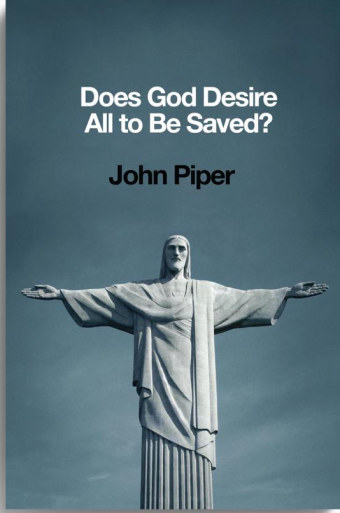
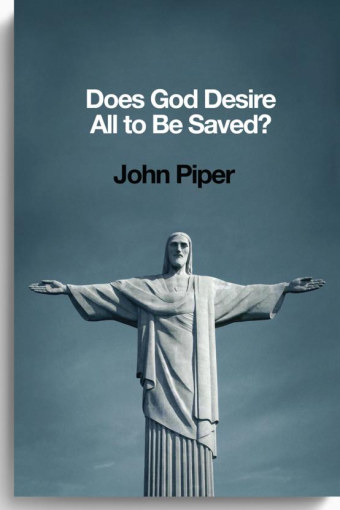
Studio demo: Q&A-only, real rectangular book preview, cursor parked, cover trim
- The source-chip book preview was being clipped into an oval (the "bubble") by a
  leftover ".appshot img { border-radius: 26px }" rule in redo.css. Overrode it on
  .sc-cover img so it now renders as the actual rectangular book cover.
- Dropped the Social-posts output cycling; the demo always shows the Q&A example.
- After Generate, the cursor parks in the bottom-right corner so it never hides the
  output text.
- Re-trimmed the Does God Desire cover to remove the white sliver on its left edge.

Changed region(s): [[0.0, 0.0, 1.0, 1.0], [0.2353, 0.1471, 0.8235, 0.2647], [0.3235, 0.3235, 0.6765, 0.3824]]

diff --git a/studio-fx.js b/studio-fx.js
@@ -112,15 +112,13 @@
   function at(ms, fn) { timers.push(setTimeout(fn, ms)); }
   function clearAll() { for (var i = 0; i < timers.length; i++) clearTimeout(timers[i]); timers = []; }
 
-  var loopCount = 0;
+  function parkCursor() {   // tuck the cursor into the bottom-right so it never hides the output
+    cursor.style.transform = "translate(" + (demo.clientWidth - 30) + "px," + (demo.clientHeight - 32) + "px)";
+  }
   function play() {
     clearAll();
-    var social = (loopCount % 2 === 1);          // alternate Q&A and Social each loop
-    var opt = social ? (socialOpt || qaOpt) : qaOpt;
-    var ans = social ? socialAns : qaAns;
-    demo.classList.remove("mode-qa", "mode-social");
-    demo.classList.add(social ? "mode-social" : "mode-qa");
-    if (title) title.textContent = social ? "Social posts pulled from Ask Pastor John" : "Q&A pulled from Ask Pastor John";
+    demo.classList.add("mode-qa");
+    if (title) title.textContent = "Q&A pulled from Ask Pastor John";
     demo.setAttribute("data-phase", "1");
     demo.classList.remove("genstart");
     lead.classList.remove("sel"); qaOpt.classList.remove("on"); if (socialOpt) socialOpt.classList.remove("on");
@@ -137,18 +135,19 @@
     at(3000, function () { moveTo(lead, 0, -8); });               // cursor to the book
     at(3900, function () { tap(); lead.classList.add("sel"); });  // select it
     at(4900, function () { demo.setAttribute("data-phase", "3"); }); // enter the working view
-    at(5700, function () { moveTo(opt); });                       // cursor to the chosen output type
-    at(6700, function () { tap(); opt.classList.add("on"); demo.classList.add("genstart"); });
+    at(5700, function () { moveTo(qaOpt); });                     // cursor to Q&A
+    at(6700, function () { tap(); qaOpt.classList.add("on"); demo.classList.add("genstart"); });
     at(7700, function () { moveTo(genbtn); });                    // cursor to Generate
     at(8700, function () { tap(); demo.setAttribute("data-phase", "4"); }); // generating
+    at(9050, function () { parkCursor(); });                      // move the cursor out of the way
     at(9100, function () { steps[0] && steps[0].classList.add("done"); });
     at(9800, function () { steps[1] && steps[1].classList.add("done"); });
     at(10500, function () { steps[2] && steps[2].classList.add("done"); });
     at(11200, function () { steps[3] && steps[3].classList.add("done"); });
-    at(11900, function () { demo.setAttribute("data-phase", "5"); moveTo(carousel, 0, 90); }); // output
-    if (ans[0]) at(12350, function () { typeOut(ans[0]); });      // stream the first answer
-    if (ans[1]) at(13200, function () { typeOut(ans[1]); });      // then the second
-    at(20000, function () { loopCount++; play(); });              // long hold so it is easy to read, then loop
+    at(11900, function () { demo.setAttribute("data-phase", "5"); });   // output (cursor already parked bottom-right)
+    if (qaAns[0]) at(12350, function () { typeOut(qaAns[0]); });  // stream the first answer
+    if (qaAns[1]) at(13200, function () { typeOut(qaAns[1]); });  // then the second
+    at(20000, play);                                             // long hold so it is easy to read, then loop
   }
 
   var running = false;

diff --git a/studio.html b/studio.html
@@ -183,8 +183,8 @@
 
     /* selected source chip */
     .src-chip { display: flex; align-items: center; gap: 12px; padding: 10px 12px; border: 1px solid var(--w-line); border-radius: 12px; background: rgba(255,255,255,.03); margin-bottom: 15px; }
-    .sc-cover { flex: 0 0 auto; width: 40px; height: 58px; border-radius: 4px; overflow: hidden; box-shadow: 0 6px 14px -6px rgba(0,0,0,.7); }
-    .sc-cover img { width: 100%; height: 100%; object-fit: cover; display: block; }
+    .sc-cover { flex: 0 0 auto; width: 48px; height: 72px; border-radius: 2px; overflow: hidden; box-shadow: 0 5px 12px -4px rgba(0,0,0,.65), 0 0 0 1px rgba(255,255,255,.06); }
+    .sc-cover img { width: 100%; height: 100%; object-fit: cover; display: block; border-radius: 2px; box-shadow: none; }
     .sc-meta { flex: 1; min-width: 0; }
     .sc-meta b { display: block; color: #fff; font-size: 13.5px; font-weight: 700; }
     .sc-meta span { display: block; color: var(--w-ink2); font-size: 11px; margin-top: 2px; }
@@ -443,11 +443,6 @@
                       <div class="ocard"><div class="oq">How do I fight for joy when I feel nothing?</div><div class="oa">The pursuit of joy in God is not optional. It is not an extra you grow into after you come to faith. It is the fight of faith itself.</div></div>
                       <div class="ocard"><div class="oq">Why would a good God let his children suffer?</div><div class="oa">Suffering in the path of obedience, endured with joy, is the clearest display of the worth of God in our lives.</div></div>
                       <div class="ocard quote">"God is most glorified in us when we are most satisfied in him."<span>Key quote · grounded in the source</span></div>
-                    </div>
-                    <div class="out-content social-content">
-                      <div class="ocard"><div class="oq">Thread · on the fight for joy</div><div class="oa">Joy in God is not a bonus feature of the Christian life that you grow into later. It is the fight of faith itself. We were made to be most satisfied in him.</div></div>
-                      <div class="ocard"><div class="oq">Quote post · on suffering</div><div class="oa">Suffering in the path of obedience, endured with joy, is the clearest display of the worth of God in our lives.</div></div>
-                      <div class="ocard quote">"God is most glorified in us when we are most satisfied in him."<span>Social post · grounded in the source</span></div>
                     </div>
                   </div>
                 </div>
